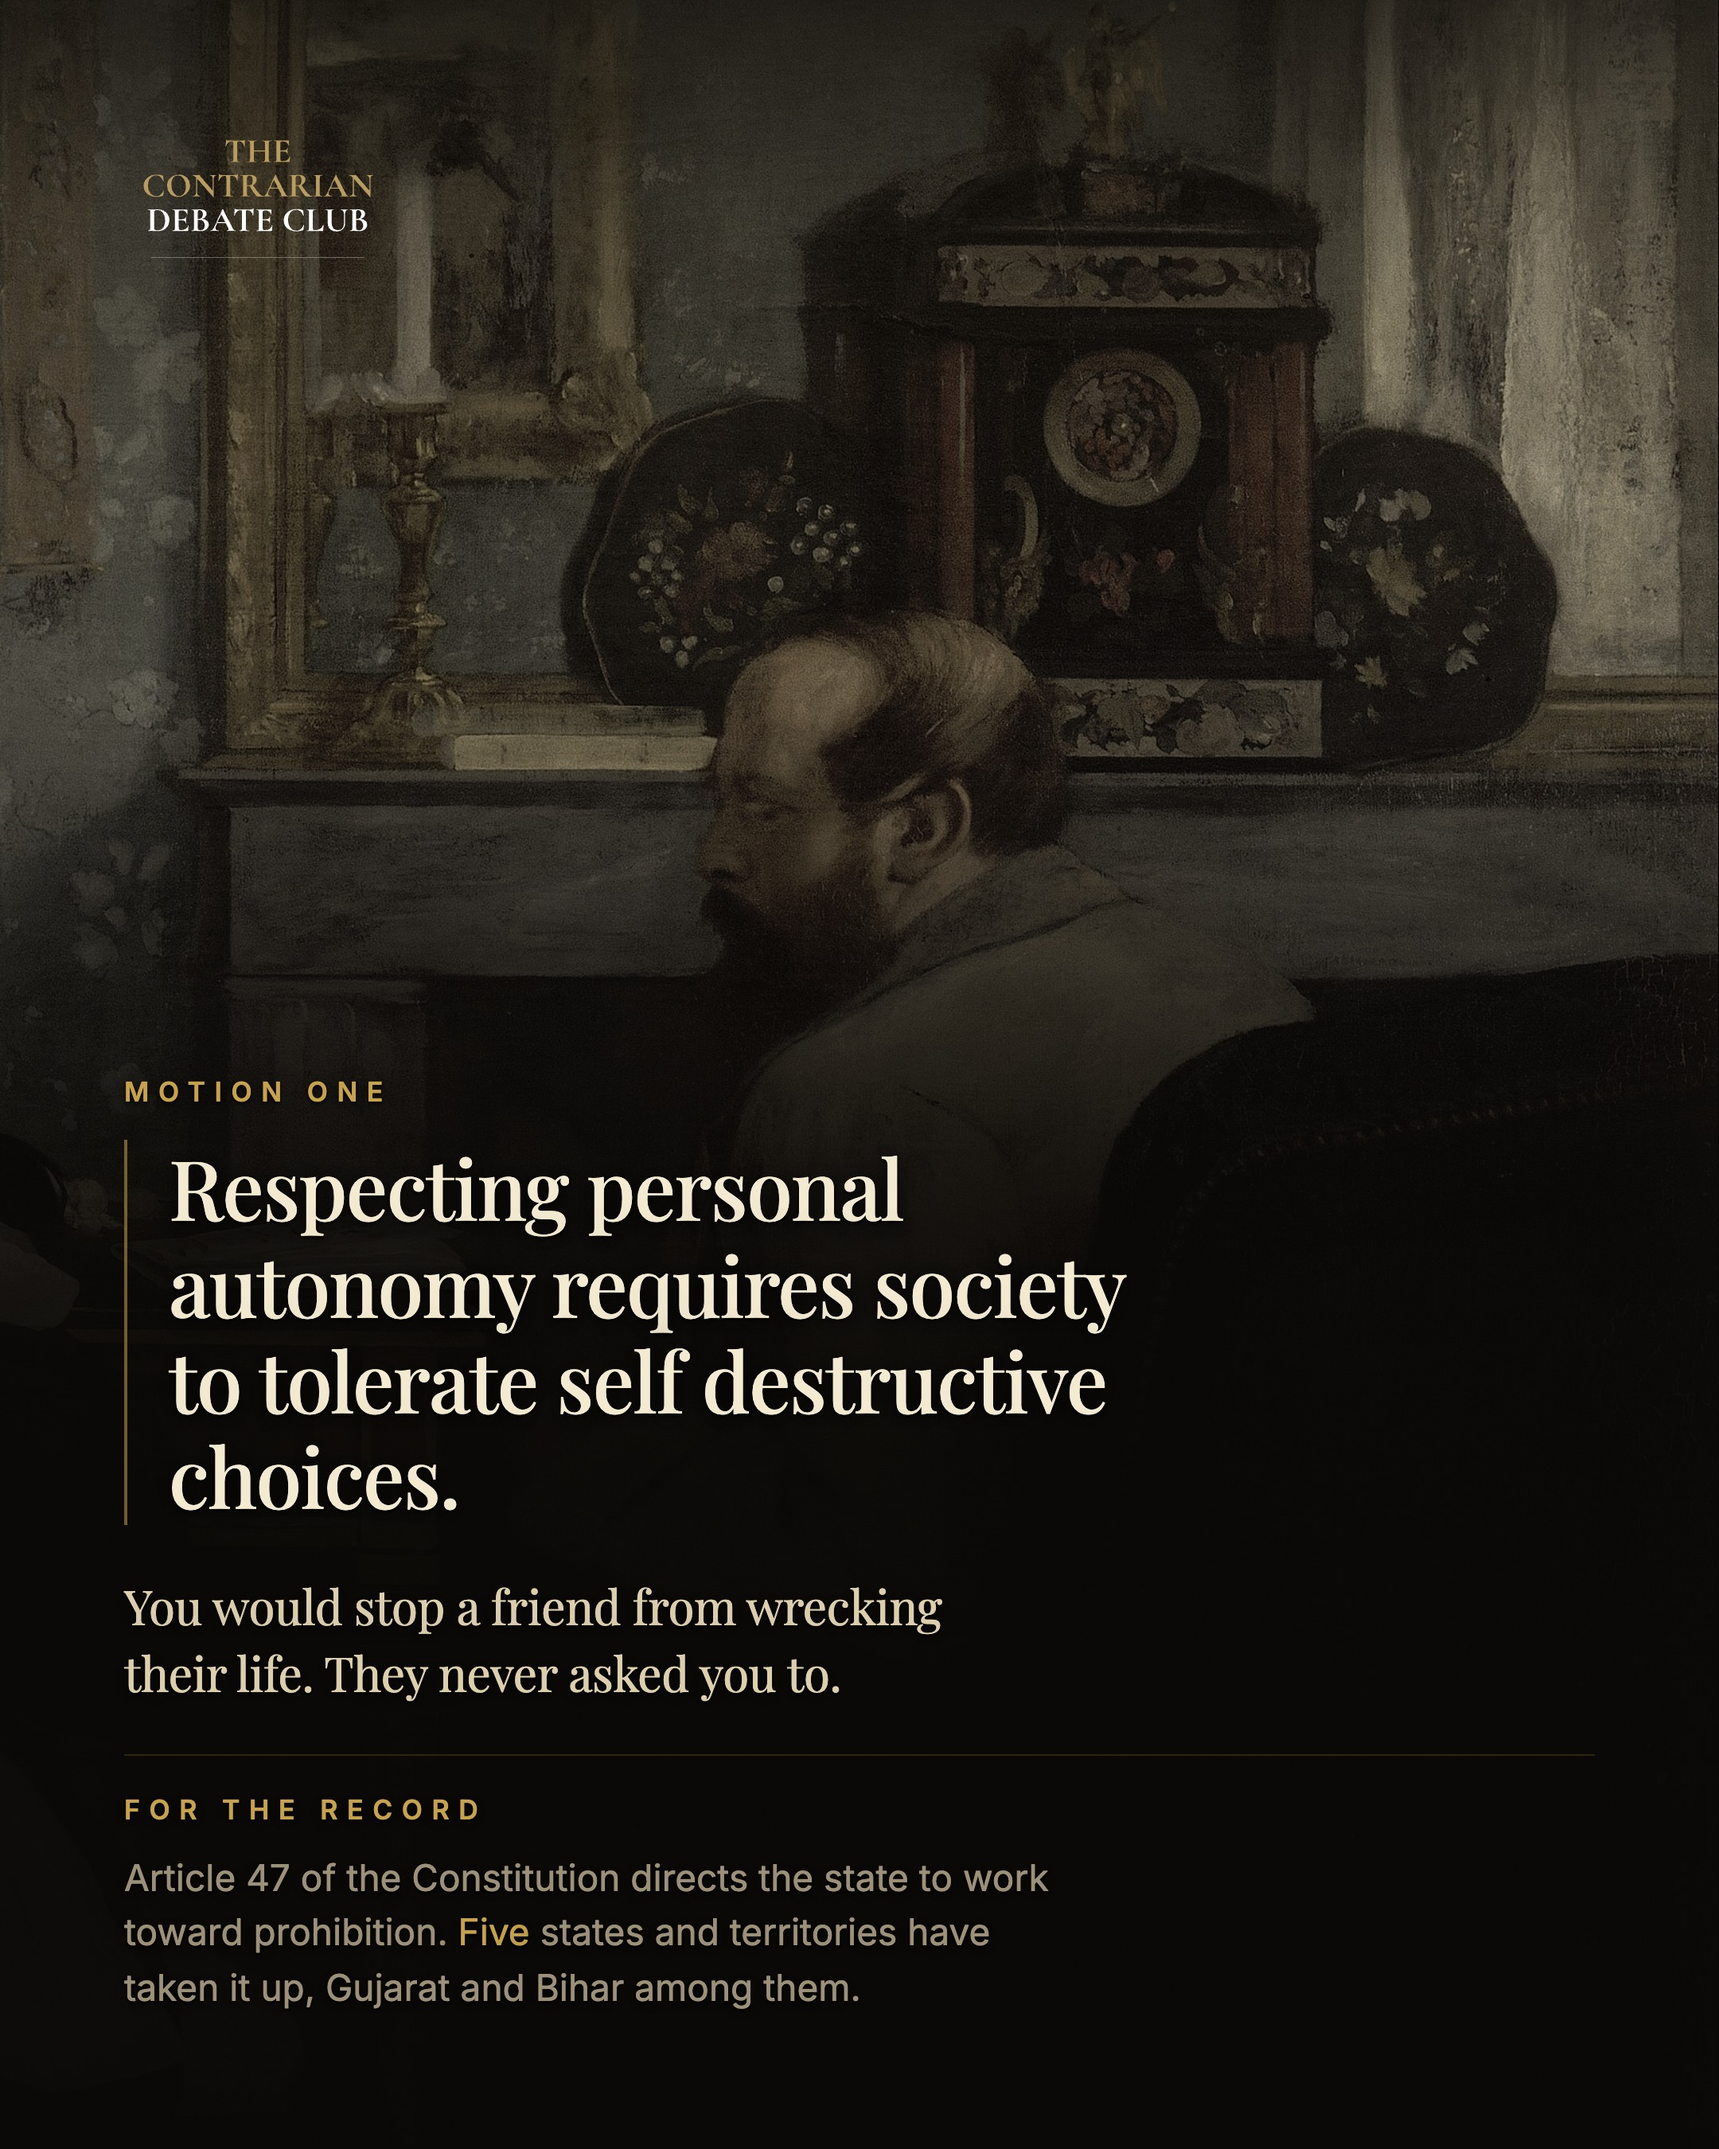
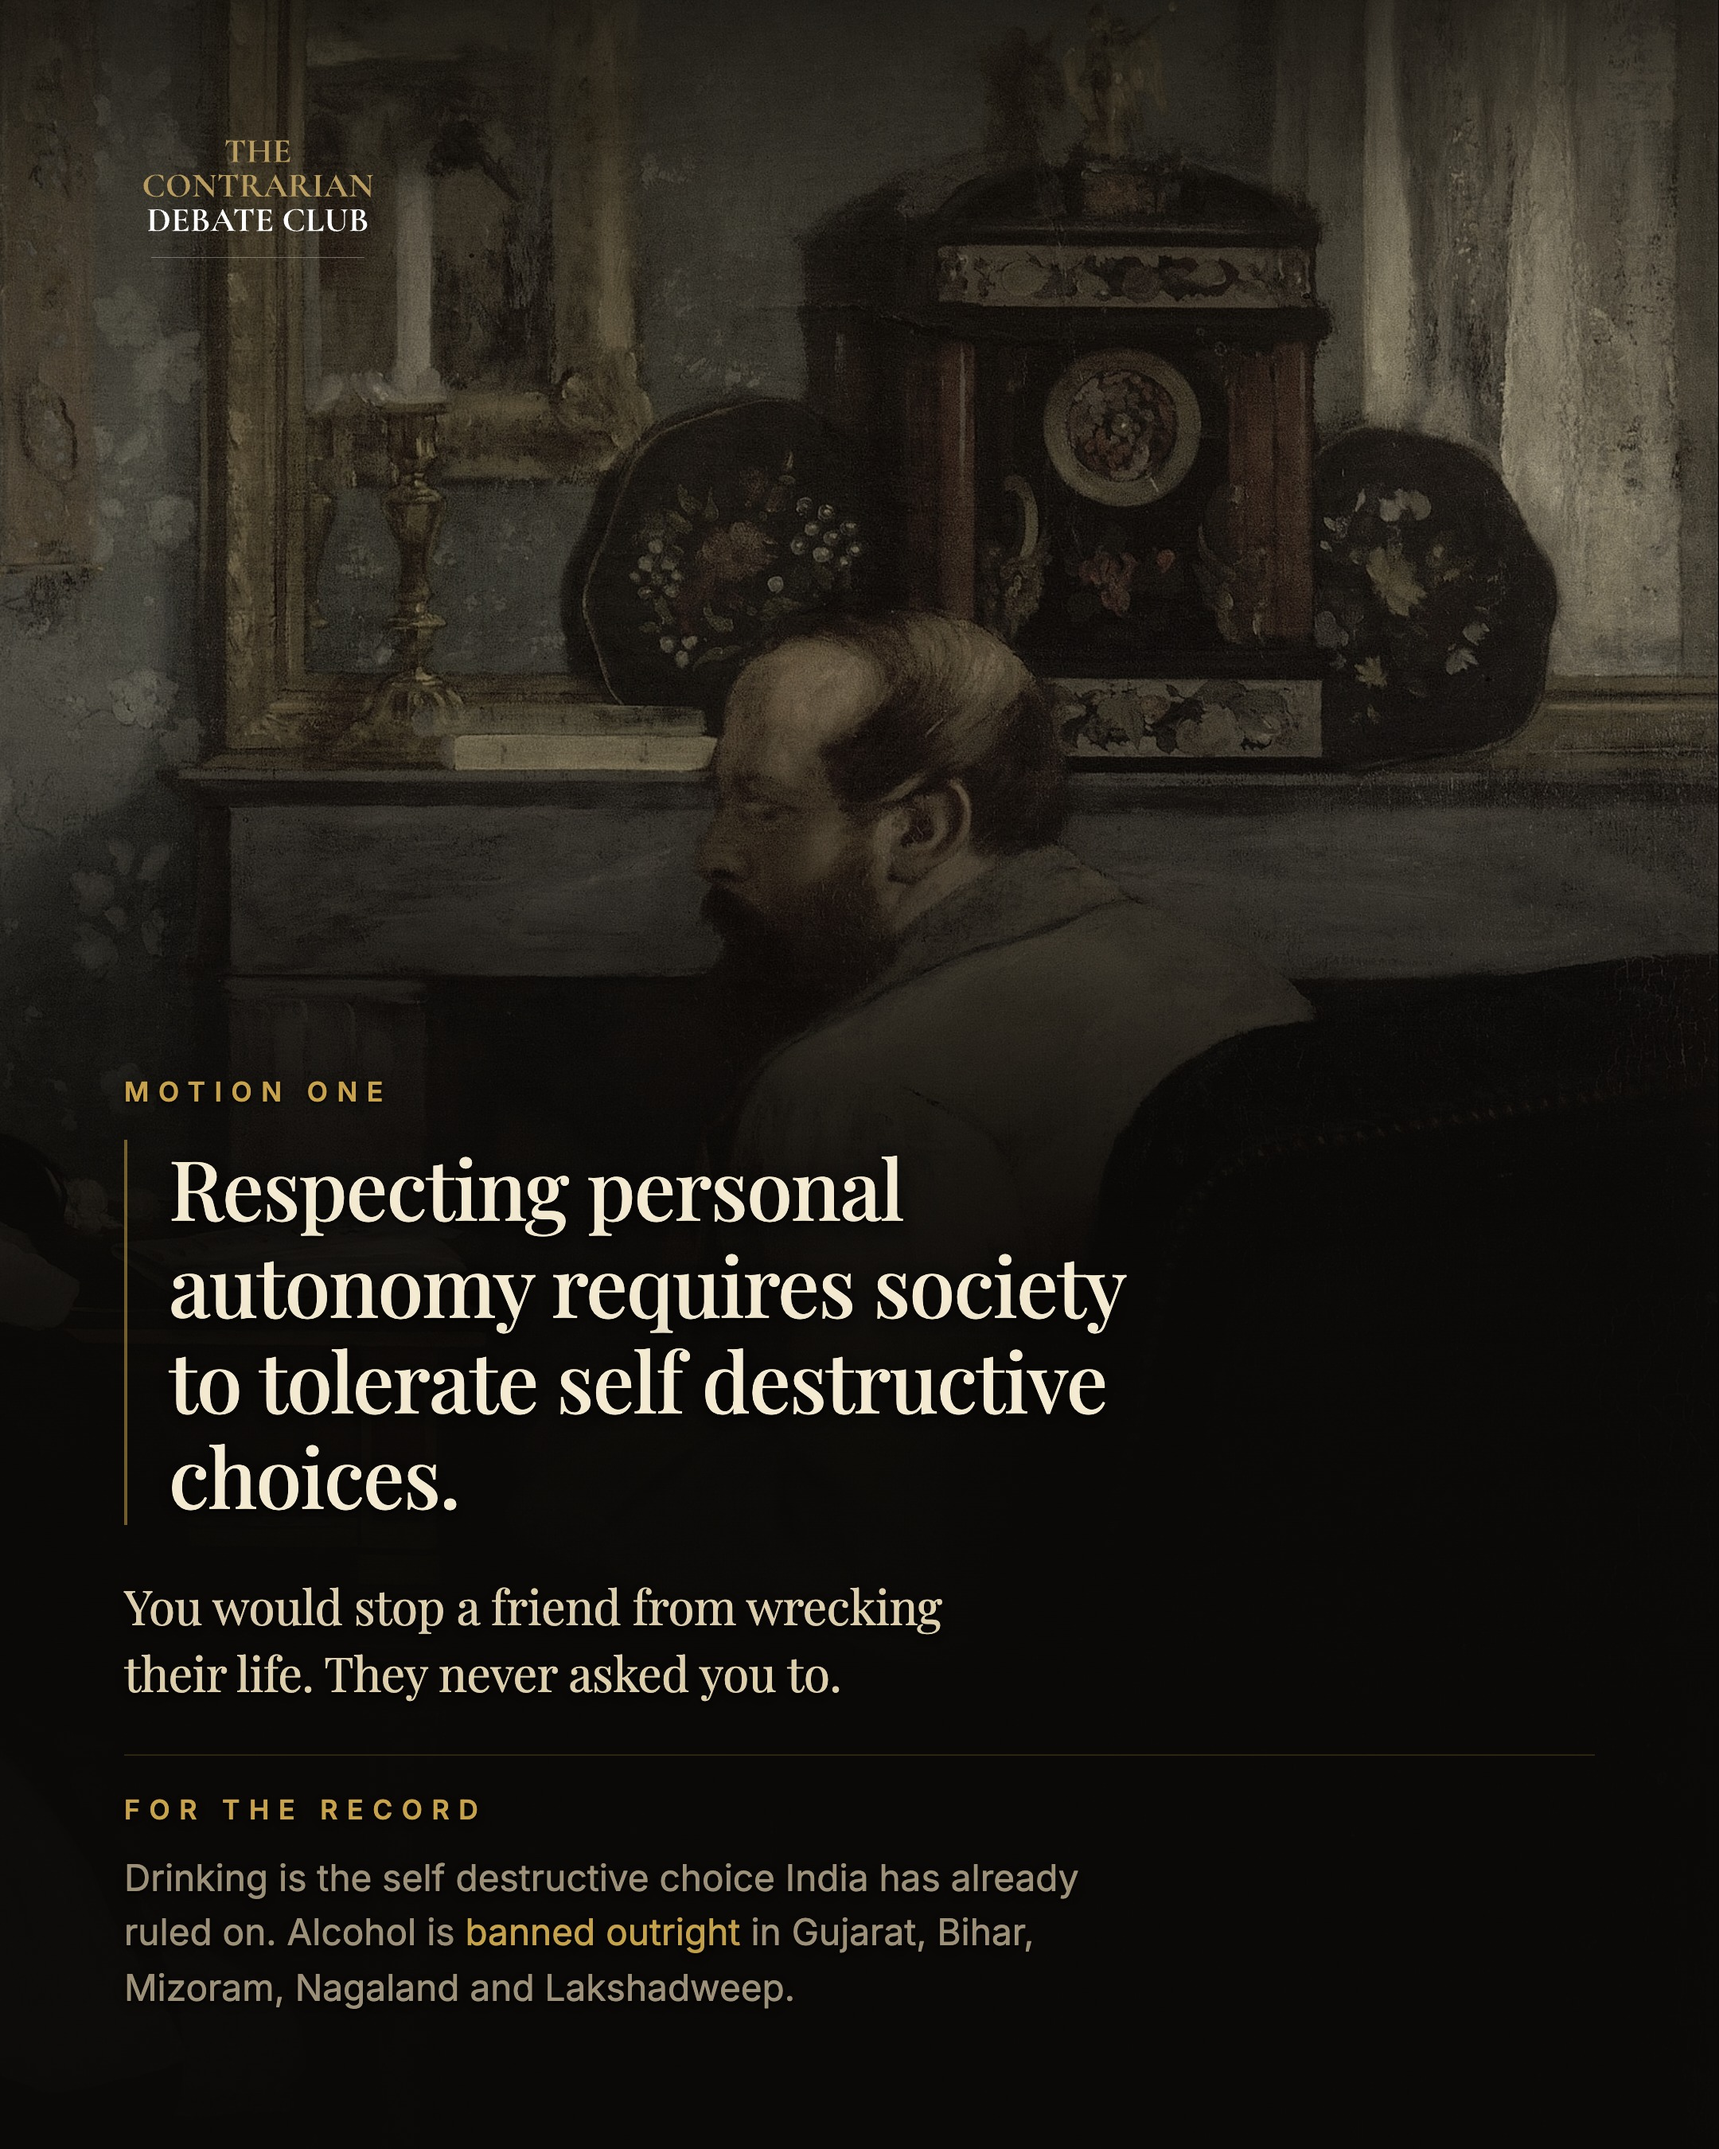
fix(posters): say alcohol on the slide about tolerating alcohol
The fact was right and the sentence was not. It led with Article 47 and
the word prohibition, and never said what was being prohibited, so a
reader mid swipe got constitutional trivia instead of the motion with
its answer already written into law.

It now names the thing first. Drinking is the self destructive choice
India has already ruled on, and alcohol is banned outright in five
places. The gold sits on banned outright rather than on the list of
states, because the claim is the surprise and the geography is not.

Claude-Session: https://claude.ai/code/session_014DQYxtdvn74XL18mdMvSLQ

Changed region(s): [[0.062, 0.8711, 0.6204, 0.9333]]

diff --git a/posters/works/2026-08-23-debate-9-recap/spec.tsx b/posters/works/2026-08-23-debate-9-recap/spec.tsx
@@ -85,8 +85,8 @@ const work: WorkSpec = {
           note="You would stop a friend from wrecking their life. They never asked you to."
           fact={
             <>
-              Article 47 of the Constitution directs the state to work toward prohibition.{" "}
-              <G>Five</G> states and territories have taken it up, Gujarat and Bihar among them.
+              Drinking is the self destructive choice India has already ruled on. Alcohol is{" "}
+              <G>banned outright</G> in Gujarat, Bihar, Mizoram, Nagaland and Lakshadweep.
             </>
           }
         />

diff --git a/posters/works/2026-08-23-debate-9-recap/README.md b/posters/works/2026-08-23-debate-9-recap/README.md
@@ -41,10 +41,12 @@ numbers by hand.
 Both are checked, and both say the same thing in different registers: on each
 of these motions somebody has already decided for you.
 
-- **Motion one.** Article 47 of the Constitution (Directive Principles) asks
-  the state to bring about prohibition of intoxicating drinks. Gujarat, Bihar,
-  Mizoram, Nagaland and Lakshadweep enforce it, which is the "five states and
-  territories" on the slide.
+- **Motion one.** Alcohol is prohibited in Gujarat, Bihar, Mizoram, Nagaland
+  and Lakshadweep. Article 47 of the Constitution (Directive Principles) asks
+  states to bring about prohibition of intoxicating drinks, and those five have.
+  An earlier cut of this slide led with Article 47 and never said the word
+  alcohol, so the reader had to work out for themselves that a self destructive
+  choice was under discussion. Name the thing, then the ruling.
 - **Motion two.** The India Human Development Survey asked ever-married women
   aged 25 to 49 who chose their husband. 5% said they chose alone, and 37% said
   they chose jointly with their parents. The survey round is 2011-12, so the
